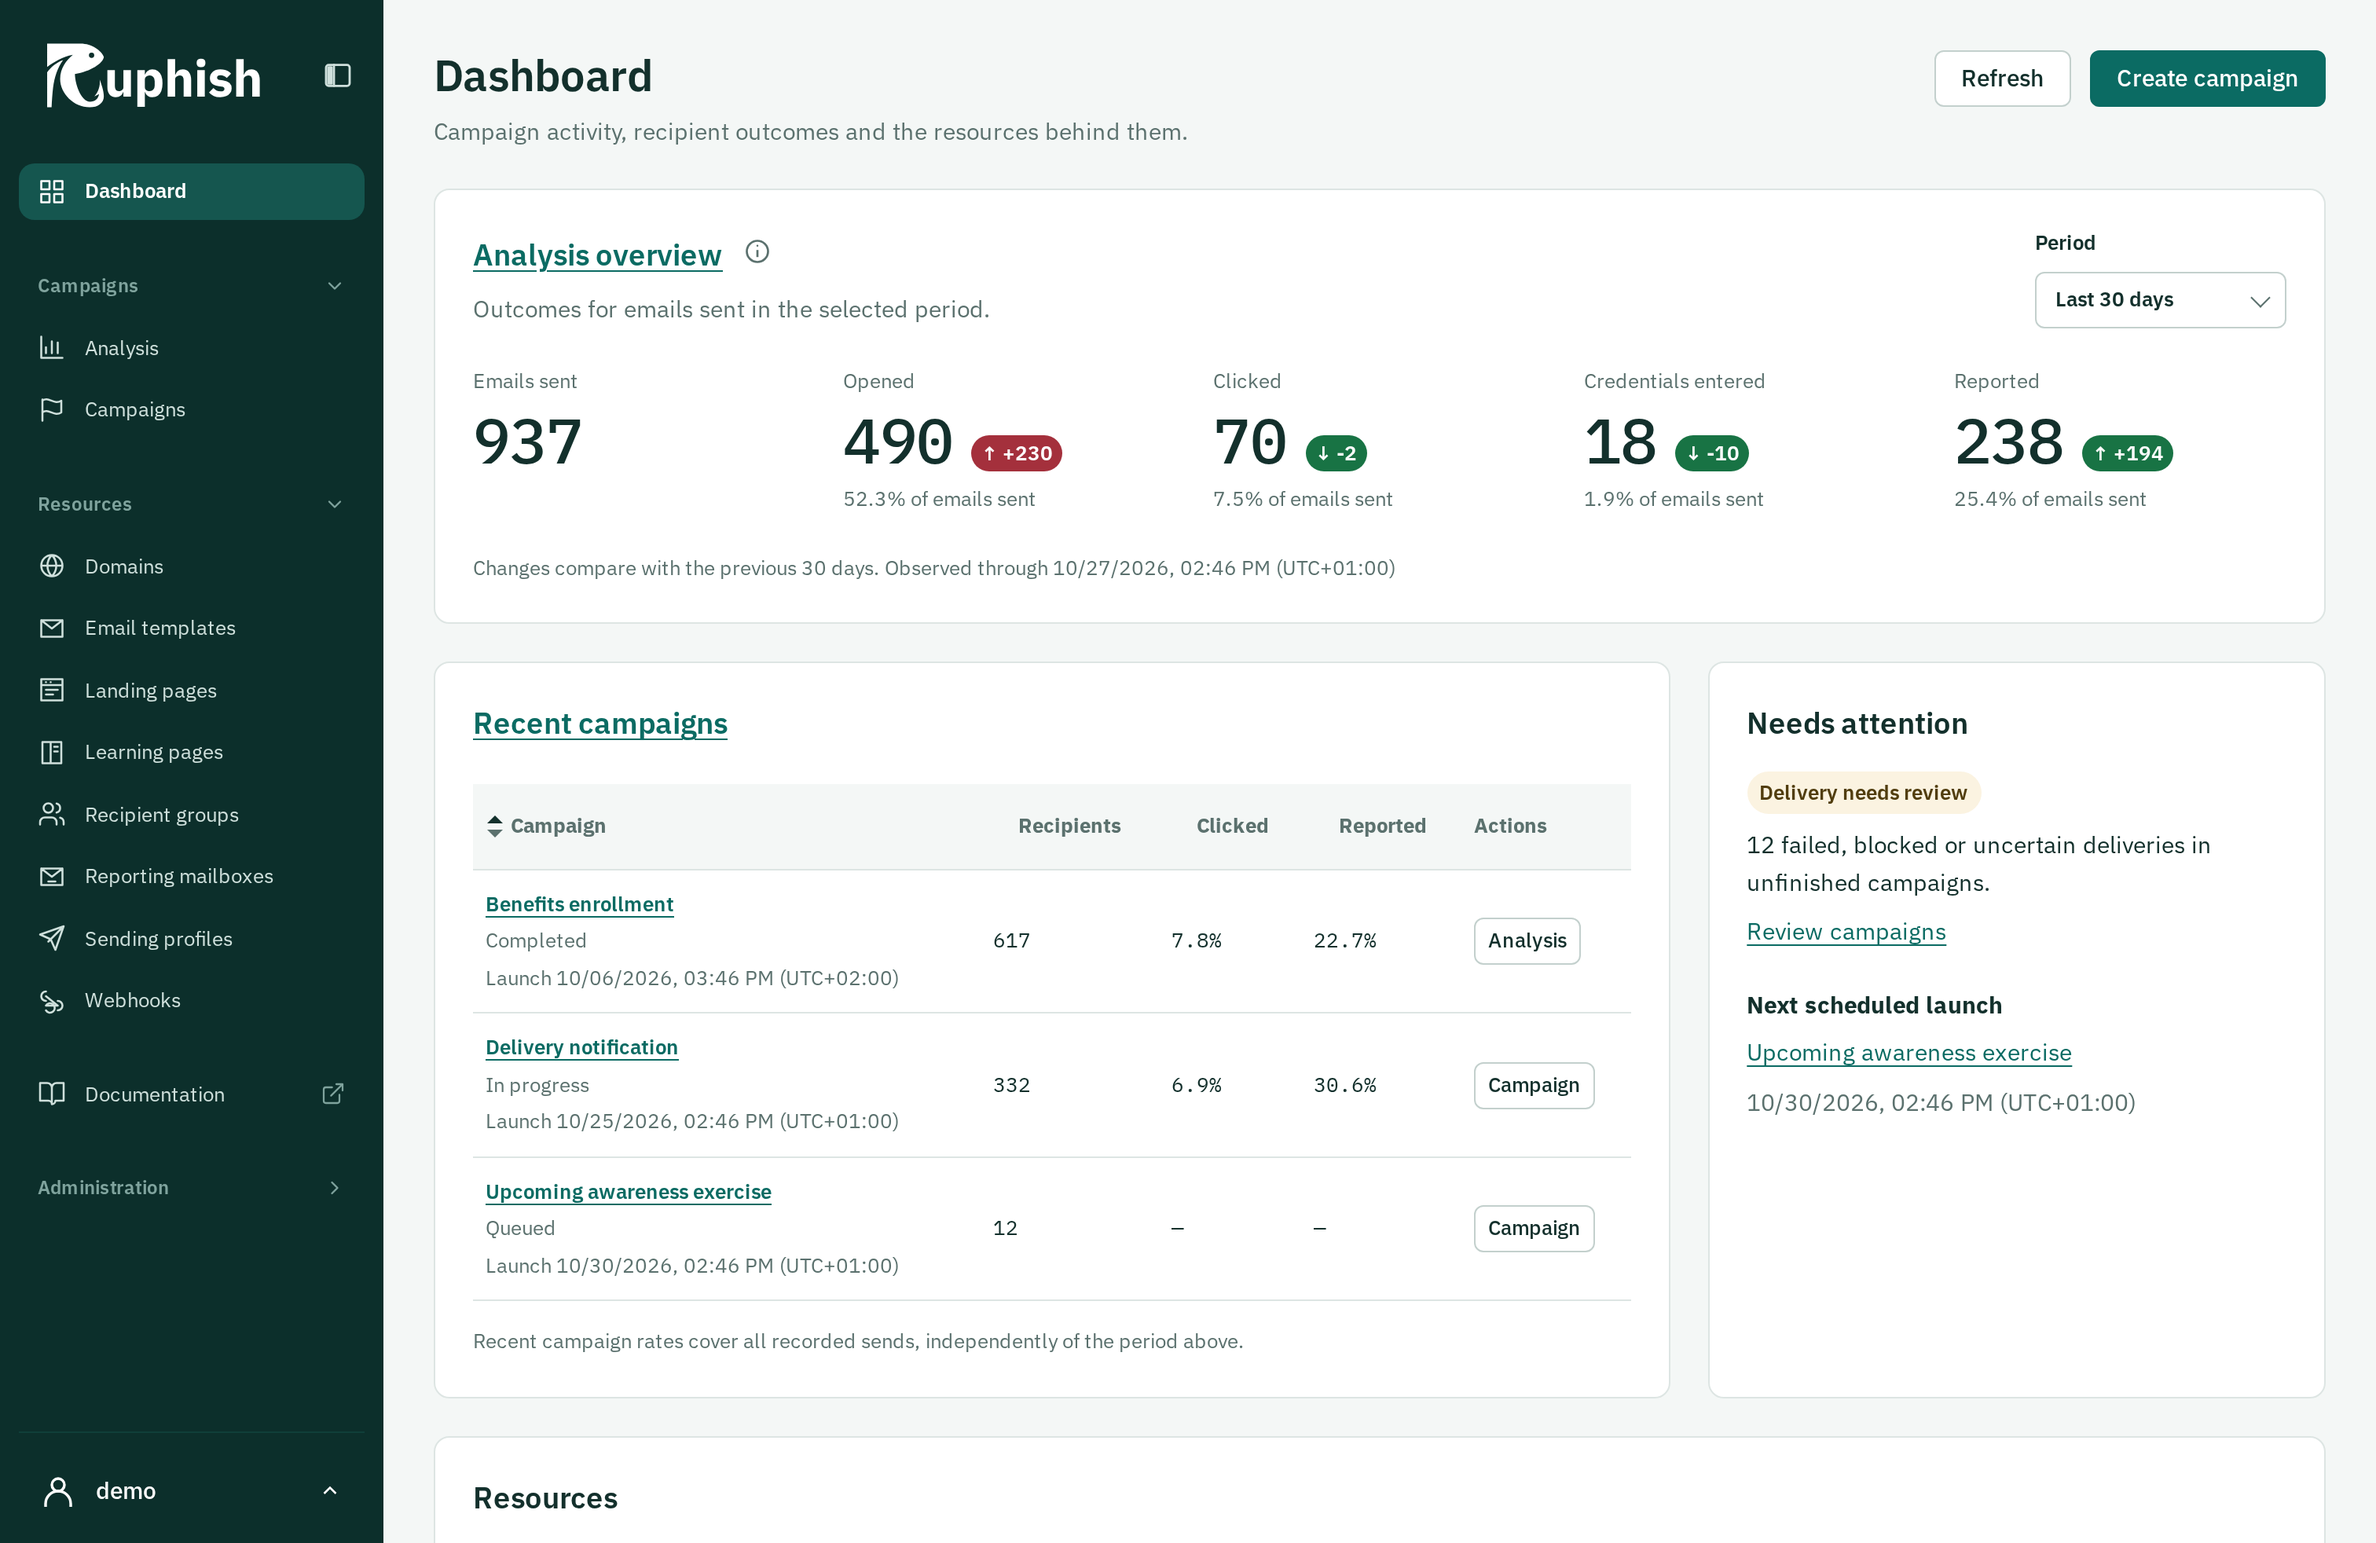
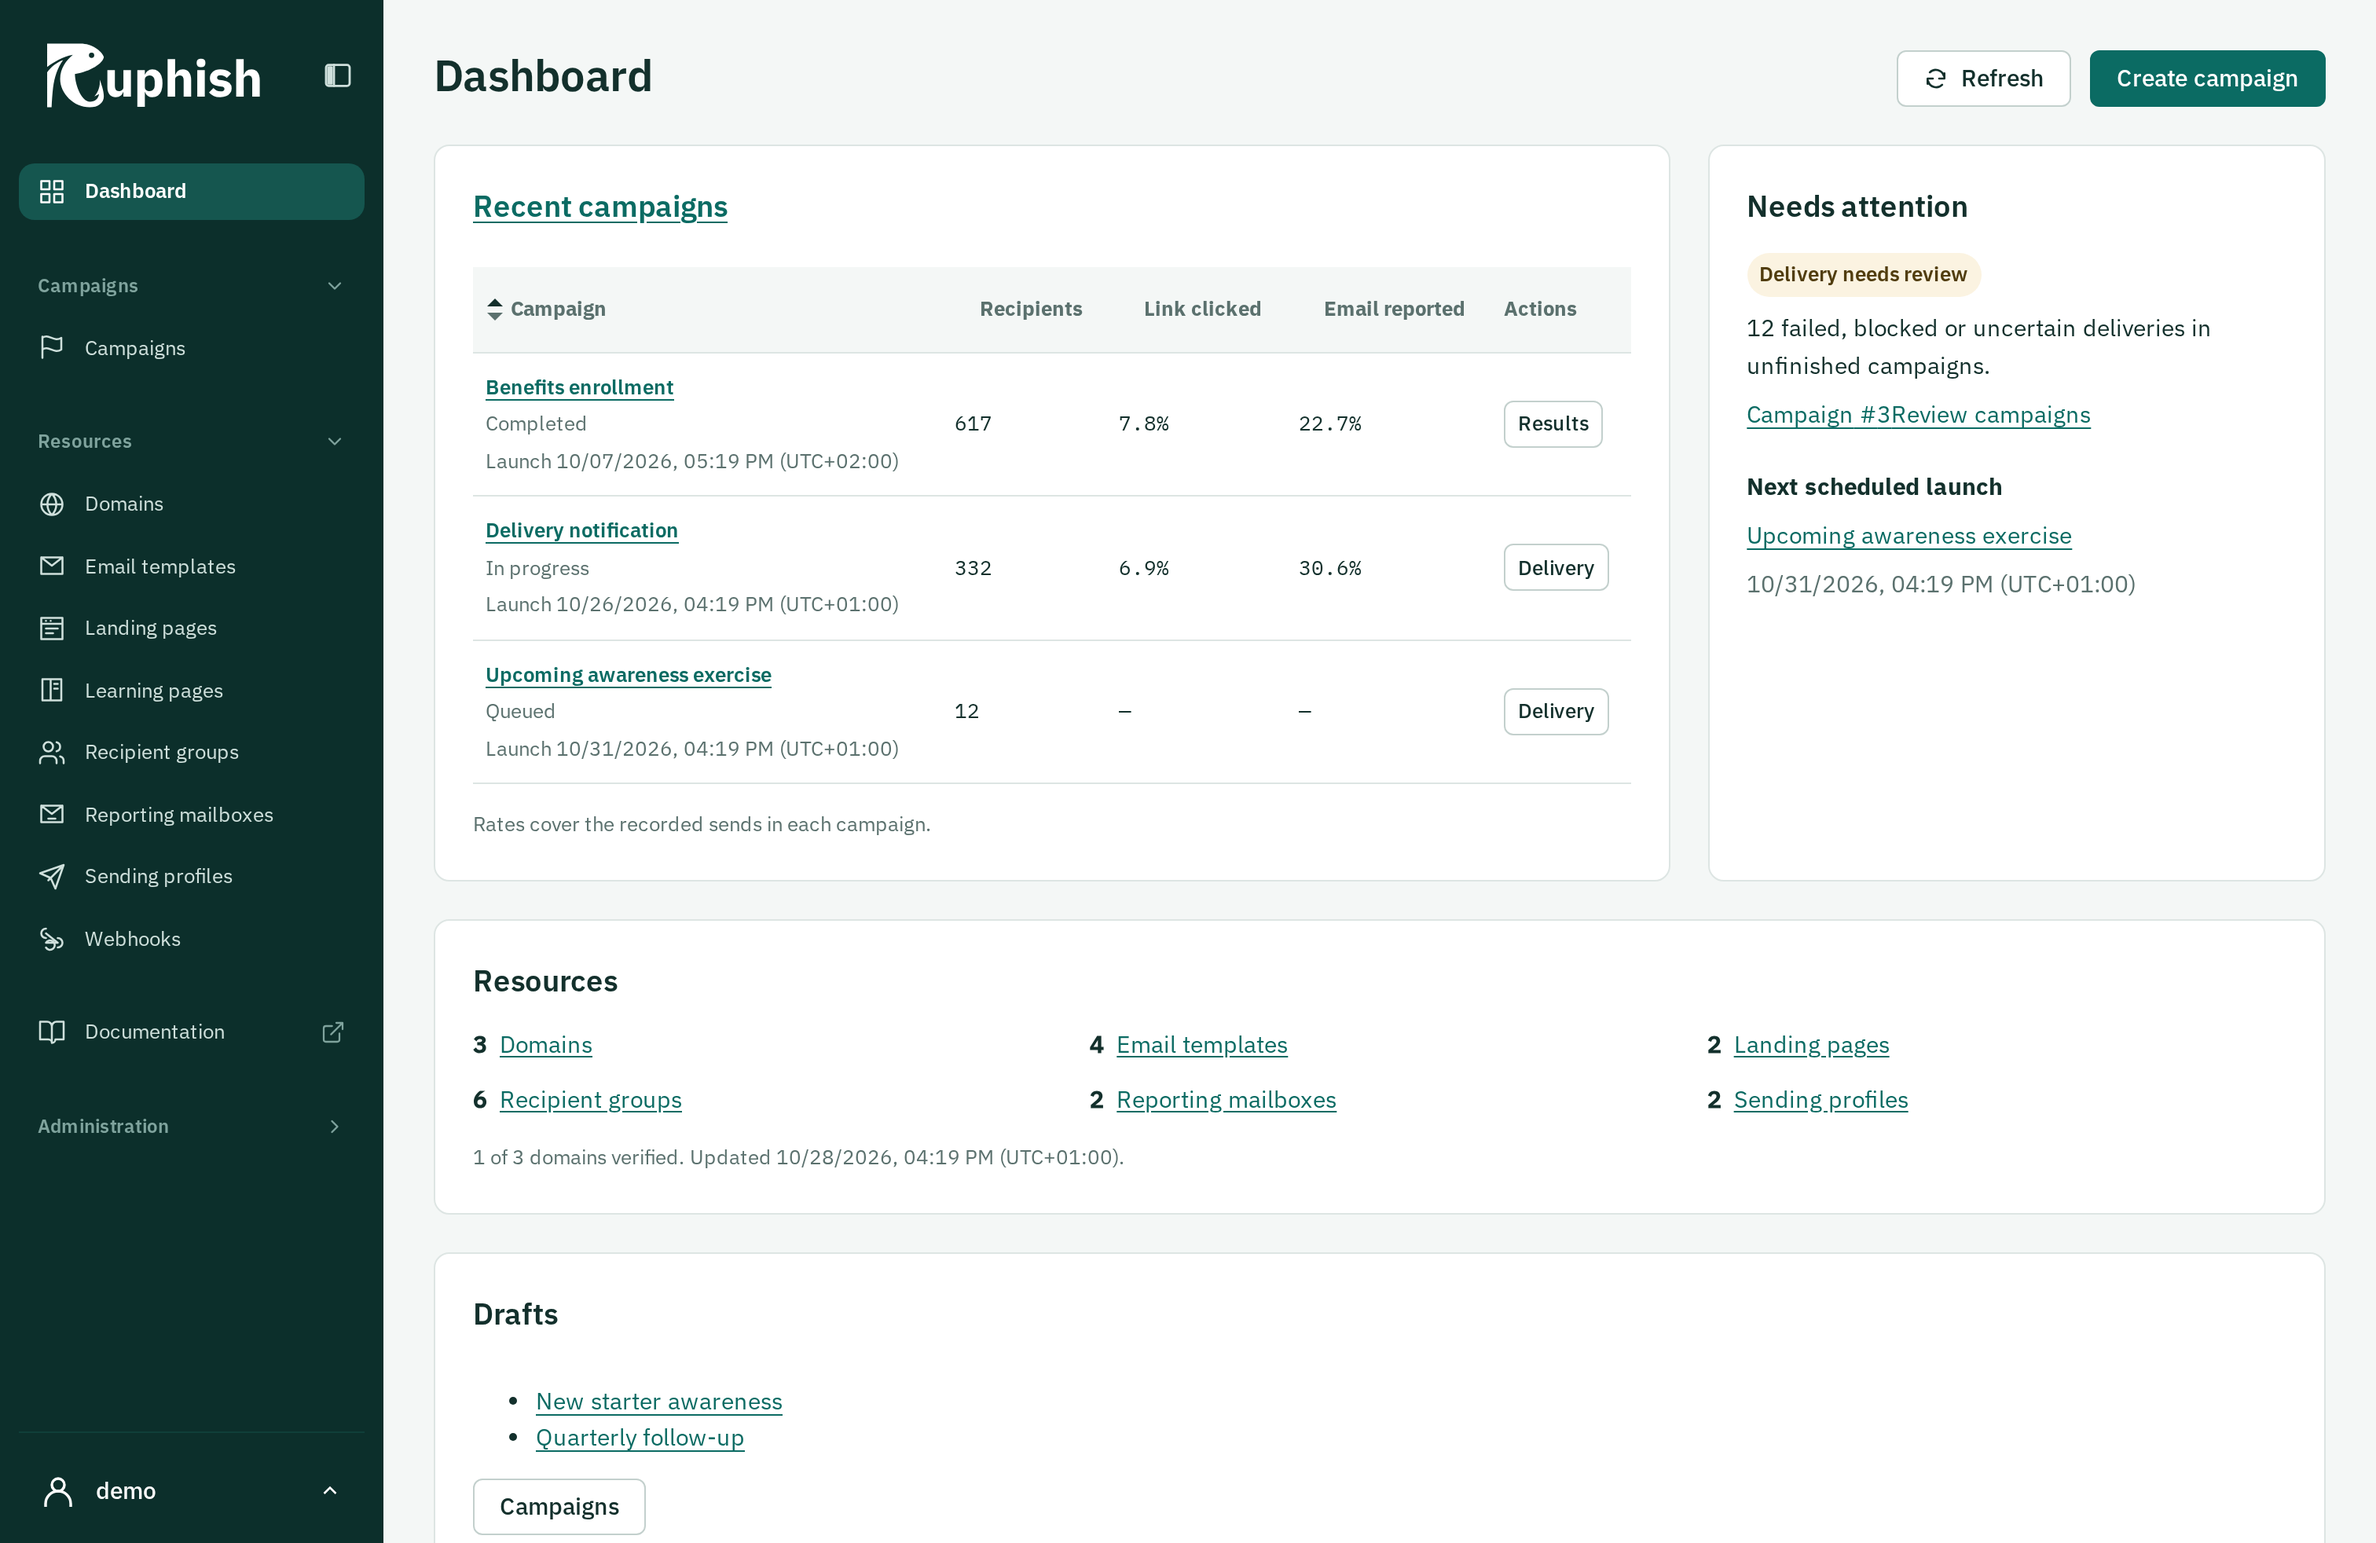
fix(recorder): capture the current dashboard without layout assertions
- Wait for the dashboard and loaded content instead of obsolete metric elements and fixed counts.
- Refresh the dashboard images used by repository assets and the website.
- Document the simplified recorder readiness checks.

diff --git a/assets/website-demo/README.md b/assets/website-demo/README.md
@@ -22,9 +22,9 @@ Or in a POSIX shell:
 docker run --rm --init --network none --shm-size=1g --mount "type=bind,source=$(pwd)/assets,target=/output" ruphish-dashboard-recorder
 ```
 
-Each run creates fresh temporary state inside the container. The job checks four campaigns, six groups, two reporting mailboxes, twelve delivery failures, and 937 emails sent, waits for the dashboard and fonts to load, then replaces the image at 3024 × 1964 pixels. Image builds do not run dependency audits or CI checks. A failed run preserves the previous image. Installation features come from the same `data.json` configuration as the browser demo, so Webhooks and Reporting mailboxes appear in both sidebars. The administrator listener is internal, mail delivery is disabled, individual domains and outbound integrations are inactive, and the recording container has no external network. `--rm` removes its database and credentials when it exits. No acceptance-lab data is used.
+Each run creates fresh temporary state inside the container. The job waits for the dashboard, its content and fonts to load, then replaces the image at 3024 × 1964 pixels. Image builds do not run dependency audits or CI checks. A failed run preserves the previous image. Installation features come from the same `data.json` configuration as the browser demo, so Webhooks and Reporting mailboxes appear in both sidebars. The administrator listener is internal, mail delivery is disabled, individual domains and outbound integrations are inactive, and the recording container has no external network. `--rm` removes its database and credentials when it exits. No acceptance-lab data is used.
 
-Edit sample values in [`data.json`](data.json) and their materialization in [`dataset.mjs`](dataset.mjs), update the expected totals in [`capture.mjs`](capture.mjs) when changing the dataset, then rebuild the image. This is the single dataset shared with the public browser demo; it fully replaces the previous screenshot seed. There is no alternate baseline or upgrade mode. [`seed.mjs`](seed.mjs) inserts it into a fresh database using the current schema, preserves a random recorder password, and disables integrations that could contact external services. The static demo simulates enabled integrations without workers. Campaign dates are relative to recording time. This is screenshot authoring, not a product acceptance test; review the resulting image yourself.
+Edit sample values in [`data.json`](data.json) and their materialization in [`dataset.mjs`](dataset.mjs), then rebuild the image. The recorder does not assert particular metrics, counts or dashboard layouts. This is the single dataset shared with the public browser demo; it fully replaces the previous screenshot seed. There is no alternate baseline or upgrade mode. [`seed.mjs`](seed.mjs) inserts it into a fresh database using the current schema, preserves a random recorder password, and disables integrations that could contact external services. The static demo simulates enabled integrations without workers. Campaign dates are relative to recording time. This is screenshot authoring, not a product acceptance test; review the resulting image yourself.
 
 The sample's **937 emails sent** in the last 30 days are **332 recipients − 12 failures + 617 recipients**. The older campaign's 400 recipients remain in the recent-campaign table but fall outside that period; they supply the previous-period comparison.
 
